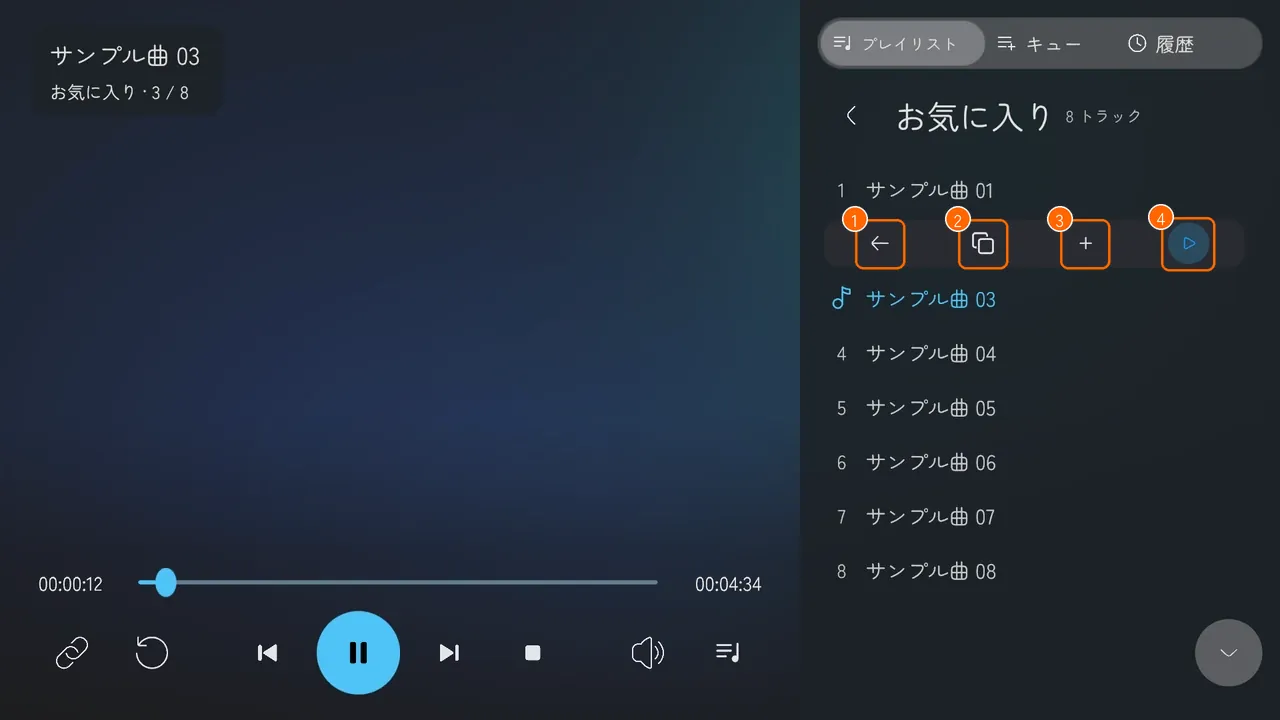
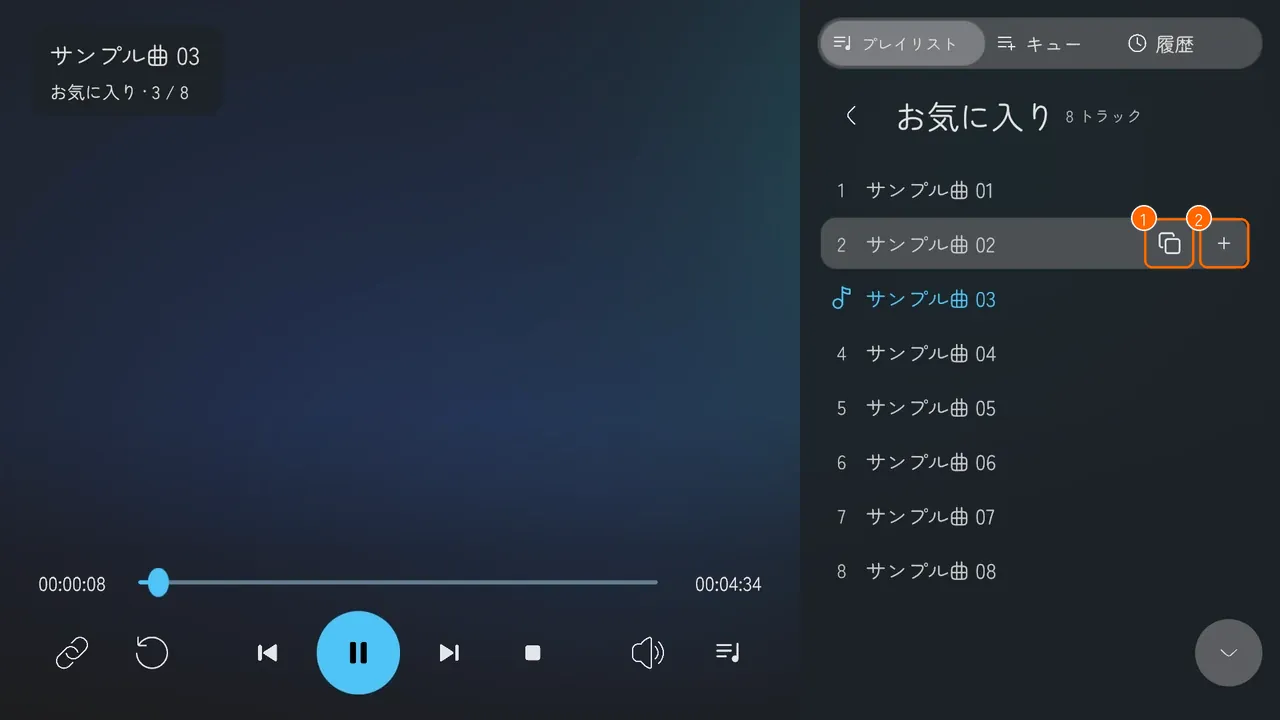
docs(guide): a pressed track plays, and its actions show on the row pointed at (#354)
The playing page, the playlists page and the VHub page no longer tell
players to press "play" in a track's actions; the actions table drops
return and play, and URL shows on every tab. The two pictures of a
track's actions are taken again with the row pointed at.

Changed region(s): [[0.625, 0.275, 1.0, 0.3972], [0.0625, 0.7944, 0.1562, 0.825]]

diff --git a/docs/guide/images/annotate.py b/docs/guide/images/annotate.py
@@ -303,20 +303,18 @@ MARKS = {
         dict(box=(827, 272, 1253, 326), n=4, cap="流れている曲", at=(640, 299)),
     ]),
     "screen/track-actions": dict(scale=0.667, marks=[
-        dict(box=(859, 223, 901, 265), n=1),
-        dict(box=(962, 223, 1004, 265), n=2),
-        dict(box=(1064, 223, 1106, 265), n=3),
-        dict(box=(1165, 221, 1211, 267), n=4),
+        dict(box=(1148, 222, 1190, 264), n=1),
+        dict(box=(1203, 222, 1245, 264), n=2),
     ]),
     "screen/queue": dict(scale=0.667, marks=[
         dict(box=(968, 21, 1111, 67), n=1),
         dict(box=(822, 84, 1258, 247), n=2),
     ]),
     "screen/queue-actions": dict(scale=0.667, marks=[
-        dict(box=(859, 142, 901, 184), n=1),
-        dict(box=(962, 142, 1004, 184), n=2),
-        dict(box=(1064, 142, 1106, 184), n=3),
-        dict(box=(1167, 142, 1209, 184), n=4),
+        dict(box=(1040, 142, 1082, 184), n=1),
+        dict(box=(1094, 142, 1136, 184), n=2),
+        dict(box=(1148, 142, 1190, 184), n=3),
+        dict(box=(1203, 142, 1245, 184), n=4),
     ]),
     "screen/history": dict(scale=0.667, marks=[
         dict(box=(1115, 21, 1259, 67), n=1),

diff --git a/docs/guide/playing.md b/docs/guide/playing.md
@@ -99,7 +99,8 @@ KawaPlayer が置かれたワールドで、スクリーンを操作する方法
 - **＋（⑤）:** VHub のプレイリストを、一覧に足します。＋ の行を指すと、＋ が左に寄り、その右に **VHub Playlist URLで追加** と出ます。行のどこを押しても、VHub の VRChat用URL を入れる欄が開きます。貼って確定すると、プレイリストの一覧の最後に 1 つ足されます。止まっていても再生は始まらず、足せたことも表示しません（読み込めなかったときだけ、理由が出ます）。動画の URL は入れられないので、下の帯の **URL を入力** から入れてください。Playlist Panel には出ません（[VHub のプレイリストを読み込む](#vhub-のプレイリストを読み込む)）。
 - **閉じる:** もう一度 **一覧** を押すか、右下の **∨**（⑥）を押すか、一覧の外を押します。次に操作を出すと、また開いています。
 - **下の帯:** 一覧が出ているあいだ、帯は一覧の左に縮みます。左のボタンは **URL を入力** と **ReSync** が残り、**ループ再生**・**シャッフル再生** と、**設定**・**UI ロック** は隠れます。
-- **長い曲名:** 一覧に入りきらない曲名は、一覧の右端で切れて出ます。その曲を指すと（VR ではビーム、デスクトップでは画面の中央）、1 秒ほどして左へゆっくり流れ、最後まで読めます。指しているあいだはくり返し、外すと元に戻ります。キュー・履歴・プレイリストの曲で同じです。
+- **曲を指す:** 曲の行を指すと（VR ではビーム、デスクトップでは画面の中央）、その行の右端にだけ、その曲の操作ボタンが出ます（[曲の操作ボタン](#曲の操作ボタン)）。外すと消えます。
+- **長い曲名:** 一覧に入りきらない曲名は、一覧の右端で切れて出ます。その曲を指すと、操作ボタンの手前で切れ、1 秒ほどして左へゆっくり流れ、最後まで読めます。指しているあいだはくり返し、外すと元に戻ります。キュー・履歴・プレイリストの曲で同じです。
 
 ### キュー
 
@@ -109,39 +110,39 @@ KawaPlayer が置かれたワールドで、スクリーンを操作する方法
 
 - **足し方:** URL を入れたときの確認で **再生キューに追加する** を押すか、履歴やプレイリストの曲の **キューに追加** を押します。
 - **流れ方:** 曲が終わったときや **次の曲** を押したとき、キューの一番上の曲が流れ、キューから消えます。シャッフル再生のときは、キューの中からランダムに選びます。
-- **プレイリストとの関係:** キューの曲を流すと、プレイリストの続けての再生から離れます。キューを流し終えても、元のプレイリストの続きは流れません。続けたいときは、プレイリストの曲を選んで **再生する** を押してください。キューが空で、プレイリストから流しているときは、プレイリストの次の曲に進みます。
+- **プレイリストとの関係:** キューの曲を流すと、プレイリストの続けての再生から離れます。キューを流し終えても、元のプレイリストの続きは流れません。続けたいときは、プレイリストの曲を押してください。キューが空で、プレイリストから流しているときは、プレイリストの次の曲に進みます。
 
-キューの曲を押すと、その行が **戻る**（①）・**上へ移動**（②）・**下へ移動**（③）・**削除**（④）に変わります。上へ移動・下へ移動で流す順番を入れ替え、削除でキューから外します。
+キューの曲を押すと、その曲をすぐ流し、キューから外します。キューの順番を飛ばすので、ほかの人が入れた曲より先に流れます。
 
-![キューの 2 曲目の行が操作ボタンに変わったところ。① 戻る、② 上へ移動、③ 下へ移動、④ 削除 に印がある](images/screen/queue-actions.webp)
+キューの曲を指すと、その行の右に **URL**（①）・**上へ移動**（②）・**下へ移動**（③）・**削除**（④）が出ます。上へ移動・下へ移動で流す順番を入れ替え、削除でキューから外します。
+
+![キューの 2 曲目を指したところ。行の右に ① URL、② 上へ移動、③ 下へ移動、④ 削除 が出て、印がある](images/screen/queue-actions.webp)
 
 ### 履歴
 
-**履歴**（①）を押すと、これまでに流した曲（②）が、流した順に上から並びます（一番下が、最後に流した曲）。曲を押すと、プレイリストの曲と同じ操作ボタン（戻る・URL・キューに追加・再生する）が出ます。もう一度流したい曲を探すときに使います。
+**履歴**（①）を押すと、これまでに流した曲（②）が、流した順に上から並びます（一番下が、最後に流した曲）。曲を押すと、その曲をもう一度流します。指すと、プレイリストの曲と同じ操作ボタン（URL・キューに追加）が出ます。
 
 ![履歴のタブ。① 履歴のタブと、② 流した 1 曲に印がある](images/screen/history.webp)
 
 ### プレイリストから曲を流す
 
 1. **プレイリスト** のタブで、流したいプレイリストを押します（[上の画像](#プレイリストキュー履歴の一覧) の ④）。
-2. そのプレイリストの曲の一覧に変わります。上には、**<**（①）と、プレイリストの名前と曲数（②）が出ます。流したい曲（③）を押します。**<** を押すと、プレイリストの一覧に戻ります。流れている曲は、番号の代わりに音符が付き、名前が色付きで出ます（④）。
+2. そのプレイリストの曲の一覧に変わります。上には、**<**（①）と、プレイリストの名前と曲数（②）が出ます。流したい曲（③）を押すと、その曲から再生します。**<** を押すと、プレイリストの一覧に戻ります。流れている曲は、番号の代わりに音符が付き、名前が色付きで出ます（④）。流れている曲（読み込み中・一時停止中も）を押しても、最初から流し直しはしません。
 
    ![プレイリスト「お気に入り」の曲の一覧。① 左上の <、② 名前と曲数、③ 2 曲目、④ 流れている 3 曲目 に印がある](images/screen/playlist-tracks.webp)
 
-3. 押した曲の行が、その曲の操作ボタンに変わります。**再生する**（④）を押すと、その曲から再生します。
-
-   ![2 曲目の行が操作ボタンに変わったところ。① 戻る、② URL、③ キューに追加、④ 再生する に印がある](images/screen/track-actions.webp)
-
 #### 曲の操作ボタン
 
-曲を押したときに出るボタンを、まとめておきます。タブによって、出るボタンが違います。
+曲を指すと、その行の右に操作ボタンが出ます。行のほかの所を押すと、その曲を流します。プレイリストと履歴では **URL**（①）と **キューに追加**（②）が出ます。
+
+![プレイリストの 2 曲目を指したところ。行の右に ① URL、② キューに追加 が出て、印がある](images/screen/track-actions.webp)
+
+タブによって、出るボタンが違います。
 
 | ボタン | すること | 出るタブ |
 | --- | --- | --- |
-| **戻る**（←） | 操作ボタンを閉じて、曲の行に戻す | すべて |
-| **URL**（2 枚の紙） | 曲名と URL の画面を出す。URL は欄からコピーできる（Playlist Panel には出ない） | 履歴・プレイリスト |
+| **URL**（2 枚の紙） | 曲名と URL の画面を出す。URL は欄からコピーできる（Playlist Panel には出ない） | すべて |
 | **キューに追加**（＋） | その曲を、キューの最後に足す | 履歴・プレイリスト |
-| **再生する**（▶） | その曲から再生する | 履歴・プレイリスト |
 | **上へ移動**（△）・**下へ移動**（▽） | キューの中で、順番を入れ替える | キュー |
 | **削除**（✕） | キューから外す | キュー |
 
@@ -192,7 +193,7 @@ VHub から読み込んだプレイリストの曲の一覧には、名前の右
 
    一覧の **プレイリスト** のタブの下にある **＋** に貼っても、同じように足せます。こちらは止まっていても再生が始まらず、**プレイリストを追加しました** も出ません。読み込めたプレイリストが、一覧の最後に出ます（[一覧](#プレイリストキュー履歴の一覧) の ⑤）。
 
-3. 一覧の **プレイリスト** のタブで、読み込んだプレイリストを選びます。曲（①）を押して、出てきた **再生する** を押すと、その曲から再生します。名前の右の **…**（②）から、**更新** で VHub の今の内容に変え、**削除** で一覧から外せます（[VHub から読み込んだプレイリスト](#vhub-から読み込んだプレイリスト)）。
+3. 一覧の **プレイリスト** のタブで、読み込んだプレイリストを選びます。曲（①）を押すと、その曲から再生します。名前の右の **…**（②）から、**更新** で VHub の今の内容に変え、**削除** で一覧から外せます（[VHub から読み込んだプレイリスト](#vhub-から読み込んだプレイリスト)）。
 
    ![プレイリスト『作業用BGM』の曲の一覧。① 1 曲目と、② 名前の右の … に印がある](images/screen/playlist.webp)
 

diff --git a/docs/guide/vhub.md b/docs/guide/vhub.md
@@ -36,7 +36,7 @@ KawaPlayer で読み込めるのは、この VRChat用URL（`https://playlist.vr
 
    一覧の **プレイリスト** のタブの下にある **＋** に貼っても、足せます。こちらは止まっていても再生が始まらず、読み込めたときは何も表示しません（[ワールドの中で使う](playing.md#プレイリストキュー履歴の一覧)）。
 
-2. スクリーンの **一覧** の **プレイリスト** で、読み込んだプレイリストを選びます。曲（①）を押して、出てきた **再生する** を押すと、その曲から再生します。名前の右の **…**（②）から、**更新** で VHub の今の内容に変え、**削除** で一覧から外せます。
+2. スクリーンの **一覧** の **プレイリスト** で、読み込んだプレイリストを選びます。曲（①）を押すと、その曲から再生します。名前の右の **…**（②）から、**更新** で VHub の今の内容に変え、**削除** で一覧から外せます。
 
    ![プレイリスト『作業用BGM』の曲の一覧。① 1 曲目と、② 名前の右の … に印がある](images/screen/playlist.webp)
 

diff --git a/docs/guide/playlists.md b/docs/guide/playlists.md
@@ -209,7 +209,7 @@ JSON ファイルから、プレイリストを読み込む欄を開きます（
 
 ## プレイリストから選ぶ
 
-スクリーンの **一覧** の **プレイリスト** でプレイリストを選ぶと、曲の一覧が出ます。曲（①）を押すと、その曲の行に操作ボタンが出ます。**再生する** で、その曲から再生します（ほかのボタンは [ワールドの中で使う](playing.md#曲の操作ボタン)）。
+スクリーンの **一覧** の **プレイリスト** でプレイリストを選ぶと、曲の一覧が出ます。曲（①）を押すと、その曲から再生します。曲を指すと、その行の右に操作ボタンが出ます（[ワールドの中で使う](playing.md#曲の操作ボタン)）。
 
 ![プレイリスト『作業用BGM』の曲の一覧。① 1 曲目と、② 名前の右の … に印がある](images/screen/playlist.webp)
 
